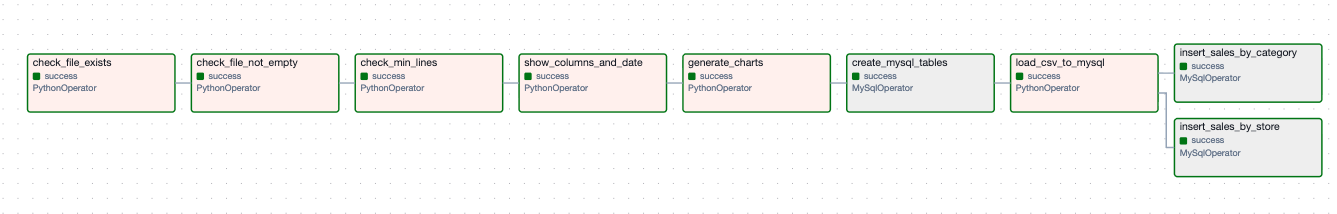
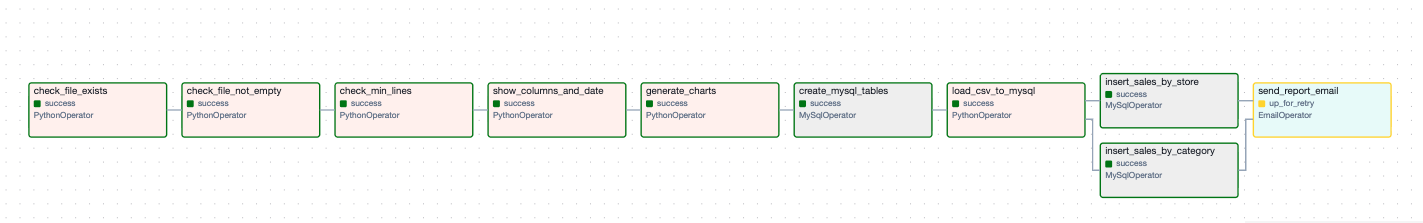
send a email

Changed region(s): [[0.0, 0.1963, 1.0, 0.8411], [0.7666, 0.8692, 0.8893, 0.8972]]

diff --git a/dags/stores_dag.py b/dags/stores_dag.py
@@ -3,6 +3,7 @@ from datetime import datetime as dt, timedelta
 #from airflow.operators.bash import BashOperator # for quick shell tasks or running existing scripts
 from airflow.operators.python import PythonOperator #for flexbility and complex logic
 from airflow.providers.mysql.operators.mysql import MySqlOperator
+from airflow.operators.email import EmailOperator
 import pandas as pd
 import mysql.connector
 import re
@@ -16,7 +17,7 @@ default_args = {
     'owner': 'airflow', 
     'depends_on_past': False,
     'start_date': dt(2024, 2, 5),   #the earliest date Airflow will schedule runs
-    'email': ['your-email@example.com'],
+    'email': ['your-email@gmail.com'],
     'email_on_failure': False,
     'email_on_retry': False,
     'retries': 1,
@@ -179,5 +180,32 @@ task_9 = MySqlOperator(
     dag=dag,
 )
 
+# Charts path in container
+results_dir = '/opt/airflow/store_files/results'
+
+task_10 = EmailOperator(
+    task_id='send_report_email',
+    to='your-email@gmail.com',
+    subject='Daily Store Sales Report',
+    html_content="""
+        <h2>Store Sales Report</h2>
+        <p>The daily sales pipeline has completed successfully.</p>
+        <p>Please find the analysis charts attached.</p>
+        <ul>
+            <li>Sales by Category</li>
+            <li>Sales by Store Location</li>
+            <li>Discount Distribution</li>
+            <li>Profit Margin by Category</li>
+        </ul>
+    """,
+    files=[
+        f'{results_dir}/01_sales_by_category.png',
+        f'{results_dir}/02_sales_by_store.png',
+        f'{results_dir}/03_discount_distribution.png',
+        f'{results_dir}/04_profit_margin_by_category.png',
+    ],
+    dag=dag,
+)
+
 # Pipeline
-task_1 >> task_2 >> task_3 >> task_4 >> task_5 >> task_6 >> task_7 >> [task_8, task_9]
+task_1 >> task_2 >> task_3 >> task_4 >> task_5 >> task_6 >> task_7 >> [task_8, task_9] >> task_10

diff --git a/README.md b/README.md
@@ -1,6 +1,6 @@
 # Store Sales Pipeline
 
-An Apache Airflow pipeline that validates store transaction data and generates sales analytics charts using Docker.
+An Apache Airflow pipeline that validates store transaction data, generates sales analytics charts, loads data into MySQL, and sends email reports using Docker.
 
 ## Overview
 
@@ -11,6 +11,10 @@ This project runs a DAG (`validate_csv`) that:
 3. **Validates minimum row count** (at least 2 lines)
 4. **Displays column headers and date** from the first record
 5. **Generates sales charts** (category sales, store sales, discount distribution, profit margins)
+6. **Creates MySQL tables** for storing transaction data and aggregated results
+7. **Loads cleaned CSV data** into MySQL `store_transactions` table
+8. **Aggregates sales data** by category and by store location (runs in parallel)
+9. **Sends email report** with the 4 charts attached via Gmail SMTP
 
 ![Airflow DAG](images/pipeline.png)
 
@@ -24,7 +28,10 @@ sales_proj/
 │   └── analysis_sales.py          # Sales analysis and chart generation
 ├── csv_files/
 │   └── raw_store_transactions.csv # Source transaction data
-├── sql_files/                     # SQL scripts
+├── sql_files/
+│   ├── create_tables.sql          # Creates MySQL tables
+│   ├── insert_sales_by_category.sql # Aggregates sales by category
+│   └── insert_sales_by_store.sql  # Aggregates sales by store
 ├── plugins/                       # Airflow plugins
 ├── logs/                          # Airflow logs
 ├── docker-compose-LocalExecutor.yml  # Docker Compose (MySQL + LocalExecutor)
@@ -76,6 +83,23 @@ The analysis script produces four charts saved to `csv_files/results/`:
    - **Password:** `admin`
 
 4. Enable the `validate_csv` DAG and trigger a run
+
+## Email Configuration (Gmail SMTP)
+
+To enable email reports, configure the following in `docker-compose-LocalExecutor.yml` (scheduler service):
+
+```yaml
+- AIRFLOW__SMTP__SMTP_USER=your-email@gmail.com
+- AIRFLOW__SMTP__SMTP_PASSWORD=your-app-password
+- AIRFLOW__SMTP__SMTP_MAIL_FROM=your-email@gmail.com
+```
+
+Also update the recipient email in `dags/stores_dag.py`.
+
+**How to get a Gmail App Password:**
+1. Enable [2-Step Verification](https://myaccount.google.com/signinoptions/two-step-verification) on your Google account
+2. Go to [App Passwords](https://myaccount.google.com/apppasswords)
+3. Create a new app password and use the generated 16-character code
 
 ## Tech Stack
 
